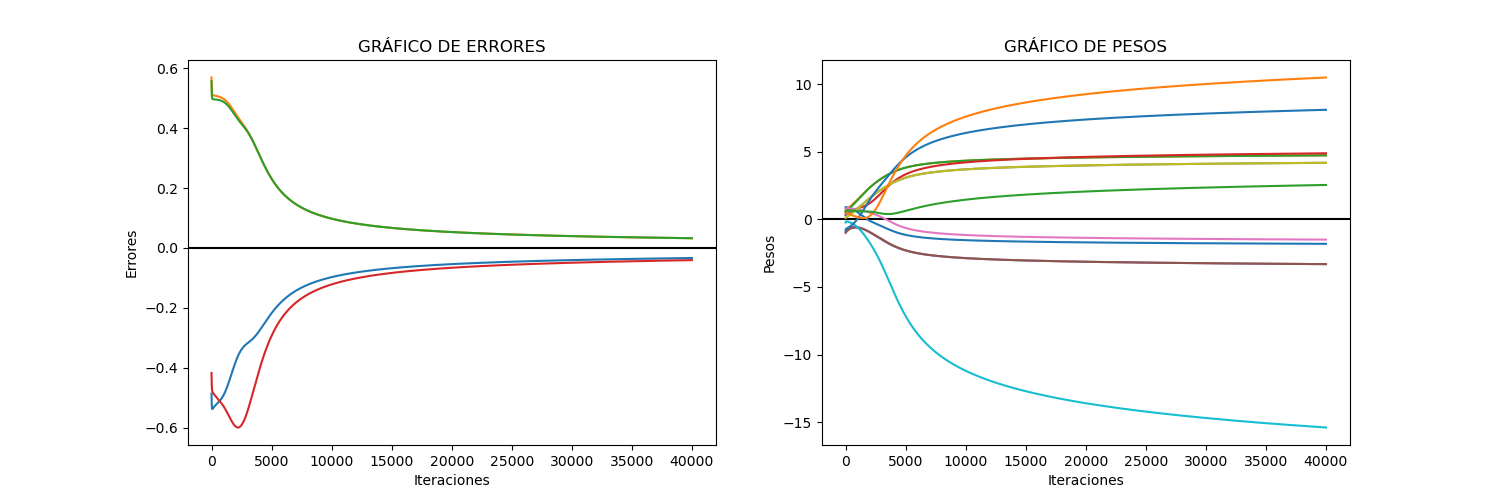
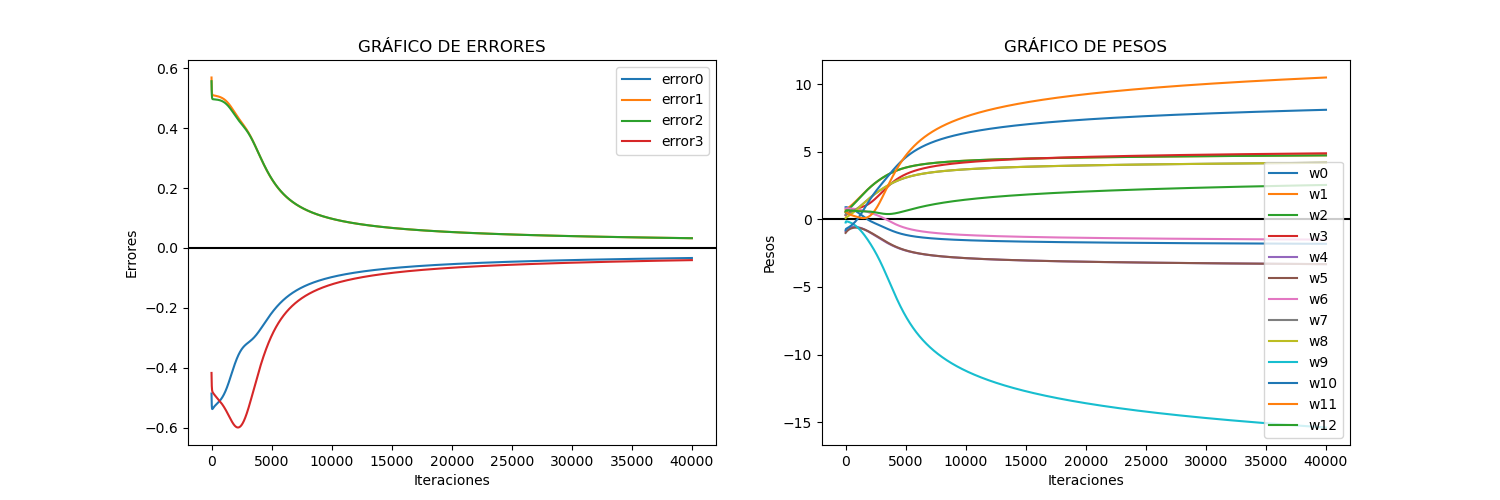
agregadas las imagenes para la entrega

diff --git a/tp4/tp4.py b/tp4/tp4.py
@@ -1,3 +1,4 @@
+from cProfile import label
 import math
 import matplotlib.pyplot as plt
 
@@ -167,15 +168,17 @@ def main():
             plt.title("GRÁFICO DE ERRORES")
             plt.axhline(y=0, color='black', linestyle='-')
             for cont in range(4):
-                plt.plot(lista_iteraciones, errores[cont])
+                plt.plot(lista_iteraciones, errores[cont], label=f"error{cont}")
+            plt.legend()
             plt.show()
         elif selected == 2:
             plt.xlabel("Iteraciones")
             plt.ylabel("Pesos")
             plt.title("GRÁFICO DE PESOS")
             plt.axhline(y=0, color='black', linestyle='-')
-            for element in lista_pesos:
-                plt.plot(lista_iteraciones, element)
+            for i, element in enumerate(lista_pesos):
+                plt.plot(lista_iteraciones, element, label=f"w{i}")
+            plt.legend()
             plt.show()
         elif selected == 3:
             plt.figure(figsize=(15,5))
@@ -185,14 +188,16 @@ def main():
             plt.title("GRÁFICO DE ERRORES")
             plt.axhline(y=0, color='black', linestyle='-')
             for cont in range(4):
-                plt.plot(lista_iteraciones, errores[cont])
+                plt.plot(lista_iteraciones, errores[cont], label=f"error{cont}")
+            plt.legend()
             plt.subplot(1, 2, 2)
             plt.xlabel("Iteraciones")
             plt.ylabel("Pesos")
             plt.title("GRÁFICO DE PESOS")
             plt.axhline(y=0, color='black', linestyle='-')
-            for element in lista_pesos:
-                plt.plot(lista_iteraciones, element)
+            for i, element in enumerate(lista_pesos):
+                plt.plot(lista_iteraciones, element, label=f"w{i}")
+            plt.legend()
             plt.show()
         elif selected == 4:
             break
